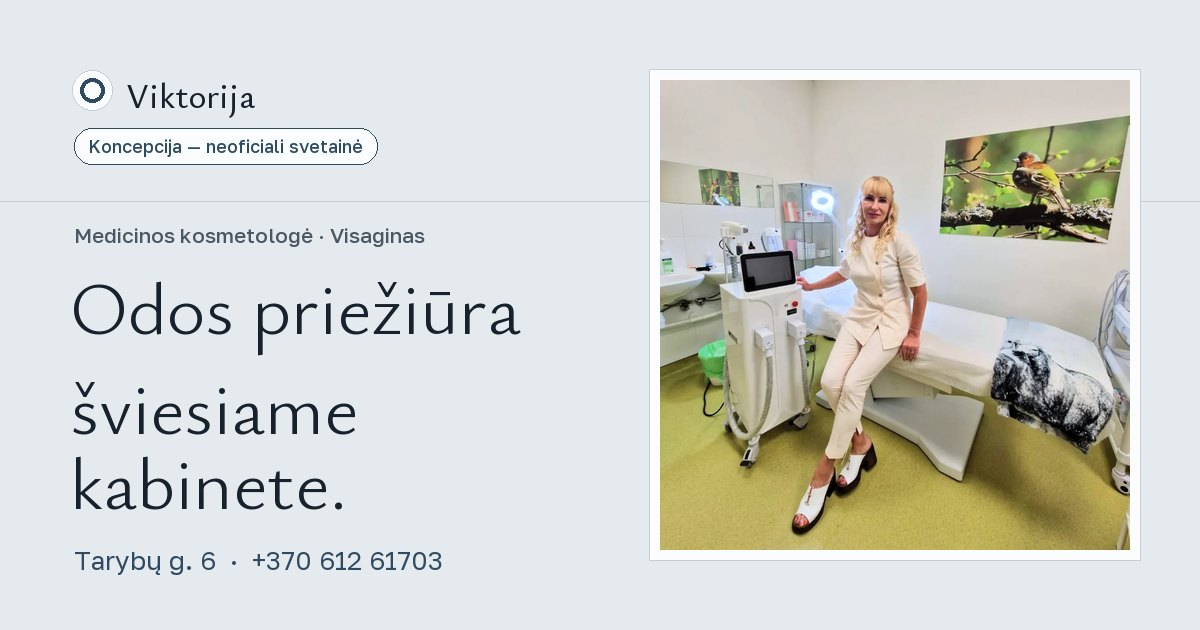
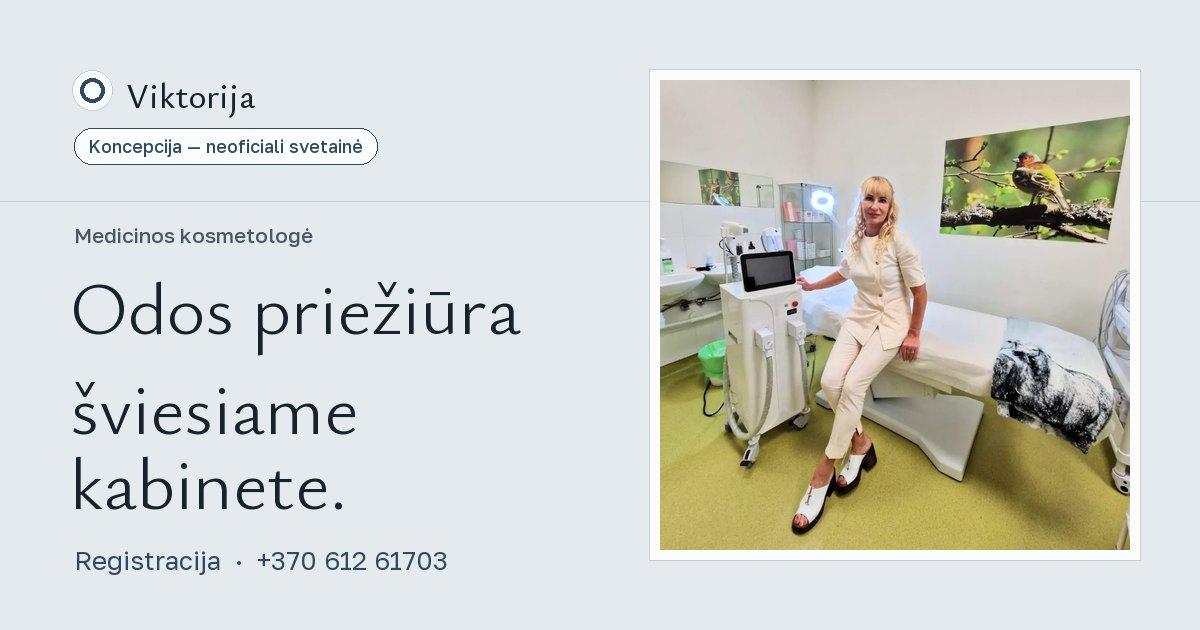
Nuorodos paveikslėlis be adreso ir miesto; aparatinės ir lazerinės procedūros įtraukiamos į SMS

Changed region(s): [[0.2158, 0.8746, 0.37, 0.9048], [0.0617, 0.8746, 0.185, 0.9048], [0.2775, 0.3619, 0.37, 0.3921]]

diff --git a/i18n.js b/i18n.js
@@ -37,7 +37,7 @@
     lensLbl: 'Звоните',
     panelTitle: 'Подготовим SMS',
     panelHint: 'Отметьте, что вам подходит. Можно ничего не выбирать — сообщение всё равно будет готово.',
-    lgTopic: 'Что вас интересует?', tConsult: 'Консультация', tFace: 'Уход за кожей лица', tUnsure: 'Пока не знаю',
+    lgTopic: 'Что вас интересует?', tConsult: 'Консультация', tFace: 'Уход за кожей лица', tDevice: 'Аппаратные и лазерные процедуры', tUnsure: 'Пока не знаю',
     lgWhen: 'Когда?', wAsap: 'Как можно скорее', wThis: 'На этой неделе', wNext: 'На следующей неделе',
     lgTime: 'Время дня', tmAm: 'До обеда', tmPm: 'После обеда', tmAny: 'Неважно',
     nameLbl: 'Имя (необязательно)',
@@ -61,7 +61,7 @@
   var SMS = {
     lt: {
       hi: 'Laba diena, Viktorija.',
-      topic: { none: 'Norėčiau užsiregistruoti.', consult: 'Norėčiau užsiregistruoti konsultacijai.', face: 'Norėčiau užsiregistruoti dėl veido odos priežiūros.', unsure: 'Norėčiau pasitarti, nuo ko pradėti.' },
+      topic: { none: 'Norėčiau užsiregistruoti.', consult: 'Norėčiau užsiregistruoti konsultacijai.', face: 'Norėčiau užsiregistruoti dėl veido odos priežiūros.', device: 'Norėčiau užsiregistruoti dėl aparatinės ar lazerinės procedūros.', unsure: 'Norėčiau pasitarti, nuo ko pradėti.' },
       when: { asap: 'kuo anksčiau', 'this': 'šią savaitę', next: 'kitą savaitę' },
       time: { am: 'iki pietų', pm: 'po pietų' },
       withWhen: { am: 'iki pietų', pm: 'po pietų' },
@@ -71,7 +71,7 @@
     },
     ru: {
       hi: 'Здравствуйте, Виктория!',
-      topic: { none: 'Хочу записаться на приём.', consult: 'Хочу записаться на консультацию.', face: 'Хочу записаться на уход за кожей лица.', unsure: 'Хочу посоветоваться, с чего начать.' },
+      topic: { none: 'Хочу записаться на приём.', consult: 'Хочу записаться на консультацию.', face: 'Хочу записаться на уход за кожей лица.', device: 'Хочу записаться на аппаратную или лазерную процедуру.', unsure: 'Хочу посоветоваться, с чего начать.' },
       when: { asap: 'как можно скорее', 'this': 'на этой неделе', next: 'на следующей неделе' },
       time: { am: 'до обеда', pm: 'после обеда' },
       withWhen: { am: 'лучше до обеда', pm: 'лучше после обеда' },

diff --git a/index.html b/index.html
@@ -12,7 +12,7 @@
 <meta property="og:title" content="Koncepcija: Viktorija, medicinos kosmetologė">
 <meta property="og:description" content="Koncepcija — neoficiali svetainė. Registracija telefonu arba SMS žinute.">
 <meta property="og:url" content="https://vasilyanaptyp-oss.github.io/kosmetologe-viktorija-concept/">
-<meta property="og:image" content="https://vasilyanaptyp-oss.github.io/kosmetologe-viktorija-concept/img/og.jpg">
+<meta property="og:image" content="https://vasilyanaptyp-oss.github.io/kosmetologe-viktorija-concept/img/og.jpg?v=2">
 <meta property="og:image:width" content="1200">
 <meta property="og:image:height" content="630">
 <meta name="theme-color" content="#E5EAEE">
@@ -447,7 +447,7 @@ legend{font:500 .9375rem/1.35 var(--text);color:var(--ink);margin:0 0 8px;paddin
           <span class="n" aria-hidden="true">03</span>
           <h3><span data-i18n="p3t">Aparatinės ir lazerinės procedūros</span></h3>
           <div class="body"><p data-i18n="p3d">HIFU, lazerinė epiliacija (diodinis lazeris), kapiliarų šalinimas lazeriu, IPL, limfodrenažas.</p></div>
-          <div class="acts"><a class="tlink" href="tel:+37061261703" data-i18n="call">Skambinti</a></div>
+          <div class="acts"><a class="tlink js-topic" href="#registracija" data-topic="device" data-i18n="addToMsg">Įtraukti į žinutę</a></div>
         </li>
       </ol>
     </div>
@@ -477,6 +477,7 @@ legend{font:500 .9375rem/1.35 var(--text);color:var(--ink);margin:0 0 8px;paddin
             <div class="chips">
               <label><input type="radio" name="topic" value="consult"><span data-i18n="tConsult">Konsultacija</span></label>
               <label><input type="radio" name="topic" value="face"><span data-i18n="tFace">Veido odos priežiūra</span></label>
+              <label><input type="radio" name="topic" value="device"><span data-i18n="tDevice">Aparatinės ir lazerinės procedūros</span></label>
               <label><input type="radio" name="topic" value="unsure"><span data-i18n="tUnsure">Dar nežinau</span></label>
             </div>
           </fieldset>
